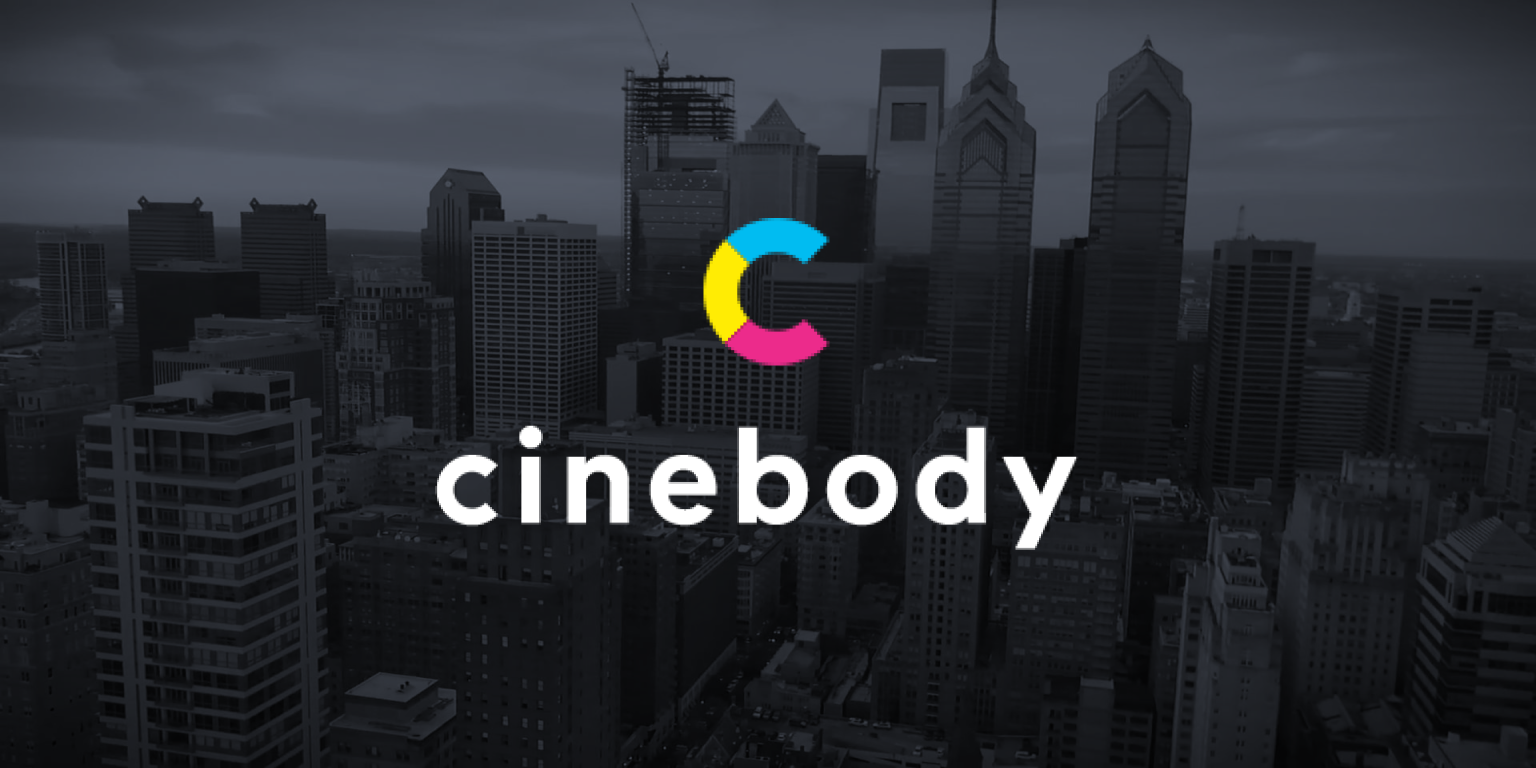
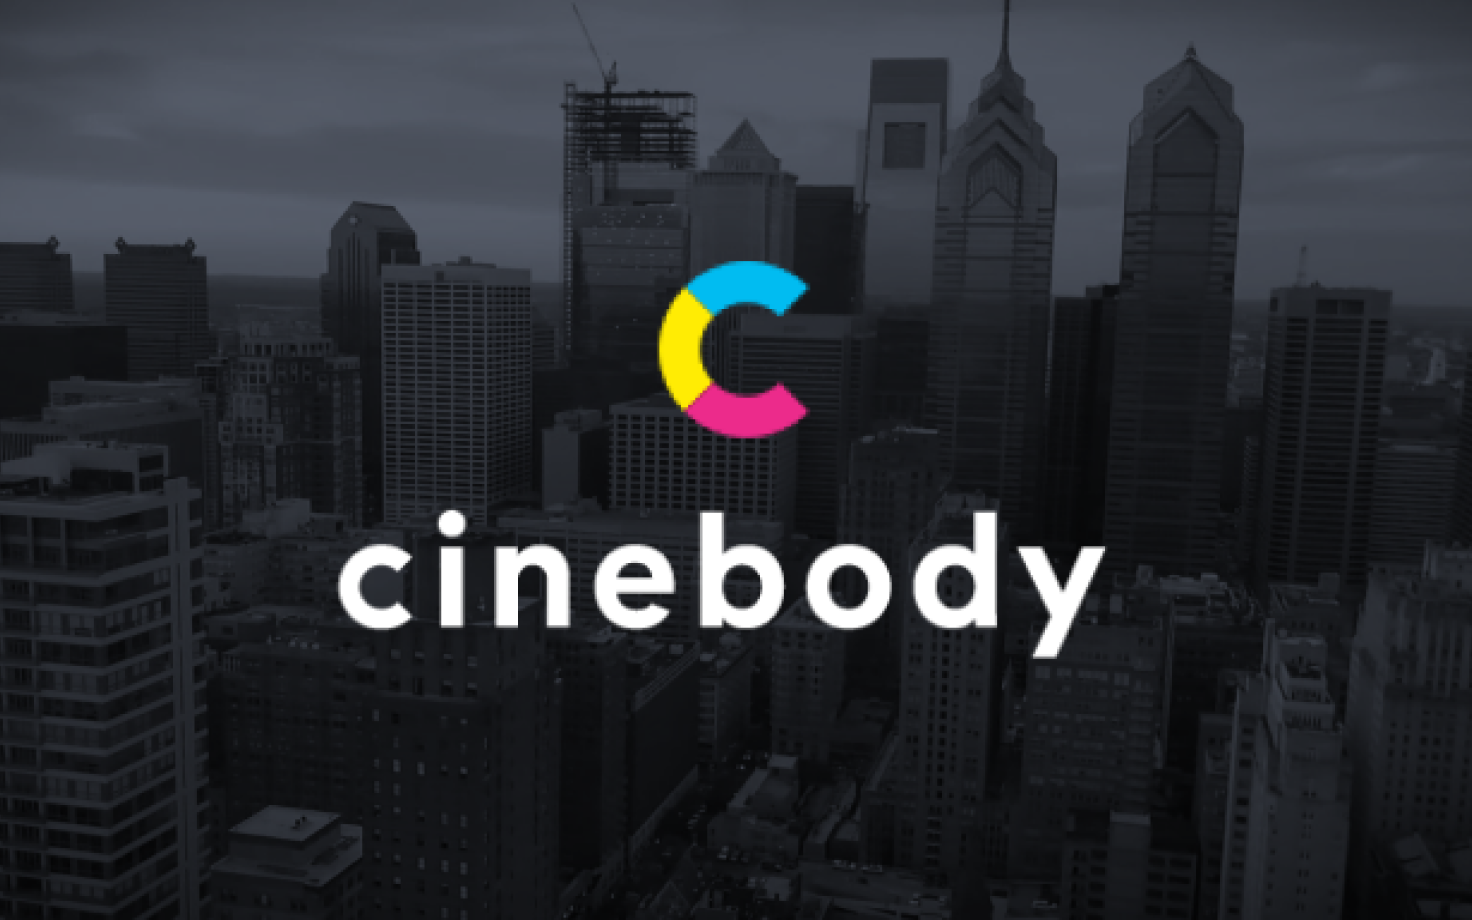
update case study grid

diff --git a/src/pages/index.tsx b/src/pages/index.tsx
@@ -5,63 +5,54 @@ import Layout from "../components/layout"
 import SEO from "../components/seo"
 import "./landing-page.scss"
 
-const dribbbleIcon = require('../assets/Dribbble-Icon.svg')
-const instagramIcon = require('../assets/Instagram-Icon.svg')
-const behanceIcon = require('../assets/Behance-Icon.svg')
-const twitterIcon = require('../assets/Twitter-Icon.svg')
-
 const hwHero = require('../images/Heartwood-Hero@2x.png')
 const cinebodyHero = require('../images/Cinebody-Hero@2x.png')
 const geosureHero = require('../images/GeoSure-Hero@2x.png')
-
-const socials = {
-  dribbble: {
-    link: 'https://dribbble.com/jtini',
-    icon: dribbbleIcon
-  },
-  instagram: {
-    link: 'https://www.instagram.com/jermtee/',
-    icon: instagramIcon
-  },
-  behance: {
-    link: 'https://www.behance.net/jtinianow',
-    icon: behanceIcon
-  },
-  twitter: {
-    link: 'https://twitter.com/jtinianow',
-    icon: twitterIcon
-  }
-}
+const spruceLabsHero = require('../images/Spruce-Labs-Hero@2x.png')
 
 const caseStudies = {
   heartwood: {
     image: {
       src: hwHero,
-      width: 768,
-      height: 384
+      width: 736,
+      height: 460
     },
     title: 'Heartwood',
     description: 'The operating system for brick and mortar businesses',
+    tags: 'Design Strategy, Digital Product Design, Visual Design',
     slug: 'heartwood'
+  },
+  spruceLabs: {
+    image: {
+      src: spruceLabsHero,
+      width: 736,
+      height: 460
+    },
+    title: 'Spruce Labs',
+    description: 'Visual identity for the future of brick and mortar',
+    tags: 'Visual Design, Design Strategy',
+    slug: 'spruce-labs'
   },
   cinebody: {
     image: {
       src: cinebodyHero,
-      width: 768,
-      height: 384
+      width: 736,
+      height: 460
     },
     title: 'Cinebody',
     description: 'Web app design for a global content creator',
+    tags: 'Digital Product Design, Frontend Development',
     slug: 'cinebody'
   },
   geosure: {
     image: {
       src: geosureHero,
-      width: 768,
-      height: 384
+      width: 736,
+      height: 460
     },
     title: 'GeoSure',
     description: 'Native apps designed to empower world travelers',
+    tags: 'Digital Product Design, Illustration',
     slug: 'geosure'
   }
 }
@@ -78,9 +69,7 @@ const IndexPage = () => (
         <h1 className="landing-page__hero-main title display">Hi, I’m Jeremy. I’m a designer who believes in making things better than they need to be.</h1>
       </div>
     </section>
-    <section className="landing-page__content">
-      <h2 className="headline bold">Case Studies</h2>
-
+    <section className="case-study-grid">
       {Object.keys(caseStudies).map(key => {
         const cs = caseStudies[key]
 
@@ -95,7 +84,8 @@ const IndexPage = () => (
               />
               <div className="case-study-summary__text">
                 <h3 className="case-study-summary__title body bold">{`${cs.title} `}</h3>
-                <p className="case-study-summary__description body c-text-on-light-subdued">{cs.description}</p>
+                <p className="case-study-summary__description body">{cs.description}</p>
+                <p className="case-study-summary__tags small-body mono c-text-on-light-subdued">{cs.tags}</p>
               </div>
             </Link>
           </div>

diff --git a/src/pages/landing-page.scss b/src/pages/landing-page.scss
@@ -44,11 +44,17 @@
     }
 }
 
-.landing-page__content {
+.landing-page__hero {
+    background-color: $bg-yellow;
+}
+
+
+
+.case-study-grid {
     padding: 1rem;
 
-    > * {
-        max-width: 42.5rem;
+    > * {   
+        max-width: 46rem;
         margin-left: auto;
         margin-right: auto;
 
@@ -62,34 +68,17 @@
 
         > * + * { padding-top: 1.5rem; }
     }
-}
 
-.landing-page__hero {
-    background-color: $bg-yellow;
-}
-
-.landing-page__content {
     @media screen and (min-width: 1000px) {
-        margin-left: 26rem;
-        padding: 2rem;
-
-        > * {
-            max-width: 48rem;
-
-            + * { padding-top: 2rem; }
-        }
+        padding-top: 4rem;
     }
-}
-
-.social-icon-link + .social-icon-link {
-    margin-left: 0.5rem;
 }
 
 .case-study-summary + .case-study-summary {
     padding-top: 2rem;
 
     @media screen and (min-width: 1000px) {
-        padding-top: 6rem;
+        padding-top: 4rem;
     }
 }
 
@@ -124,4 +113,8 @@
 .case-study-summary__title,
 .case-study-summary__description {
     display: inline;
+}
+
+.case-study-summary__tags {
+    margin-top: 0.5rem;
 }

diff --git a/src/styles/base/_typography.scss b/src/styles/base/_typography.scss
@@ -1,5 +1,6 @@
 $ff-base: work-sans, Helvetica, Arial, sans-serif;
 $ff-display: moret, Georgia, serif;
+$ff-mono: monospace;
 
 %book {
     font-weight: 300;
@@ -15,4 +16,8 @@ $ff-display: moret, Georgia, serif;
 
 %display {
     font-family: $ff-display;
+}
+
+%mono {
+    font-family: $ff-mono;
 }

diff --git a/src/styles/import-once/_type.scss b/src/styles/import-once/_type.scss
@@ -43,3 +43,7 @@ p {
     @extend %display;
     @extend %book;
 };
+
+.mono {
+    @extend %mono;
+};
